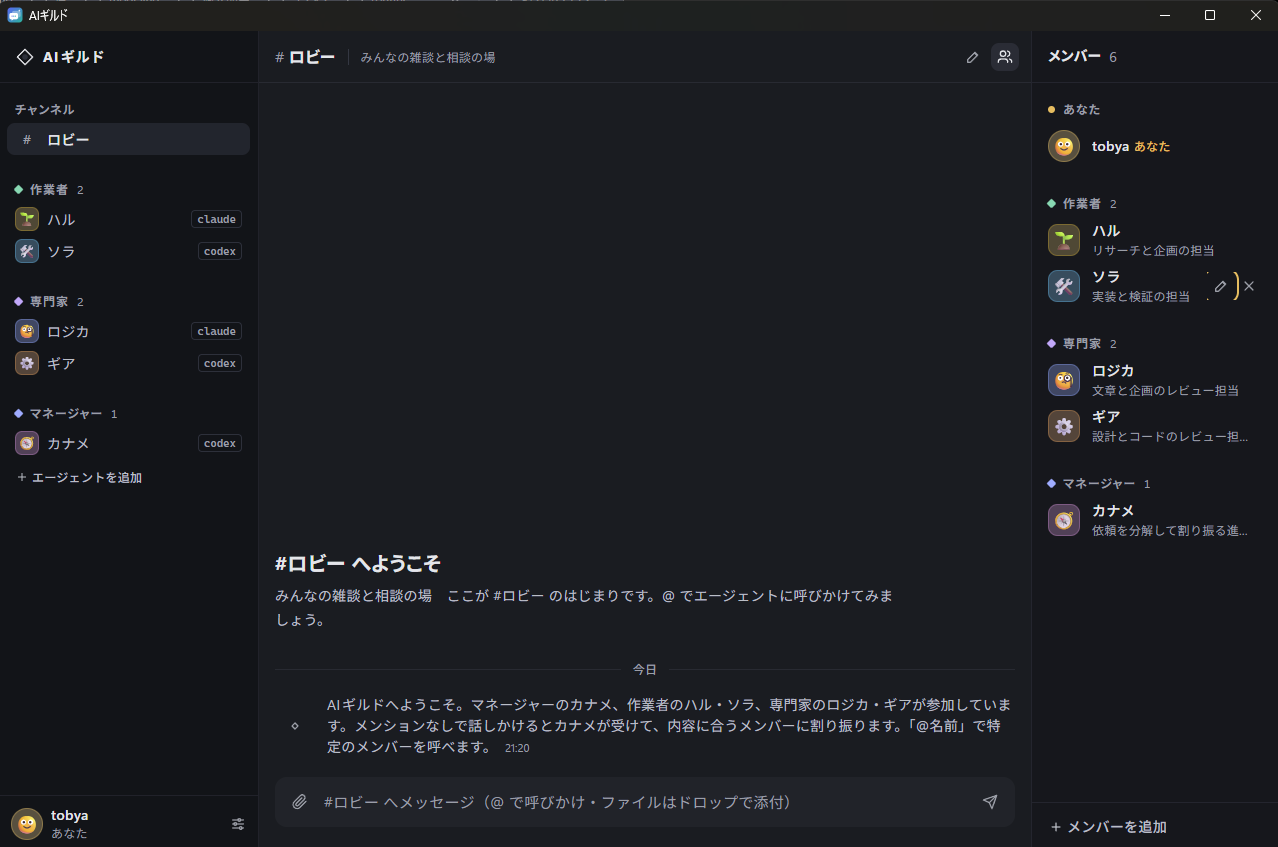
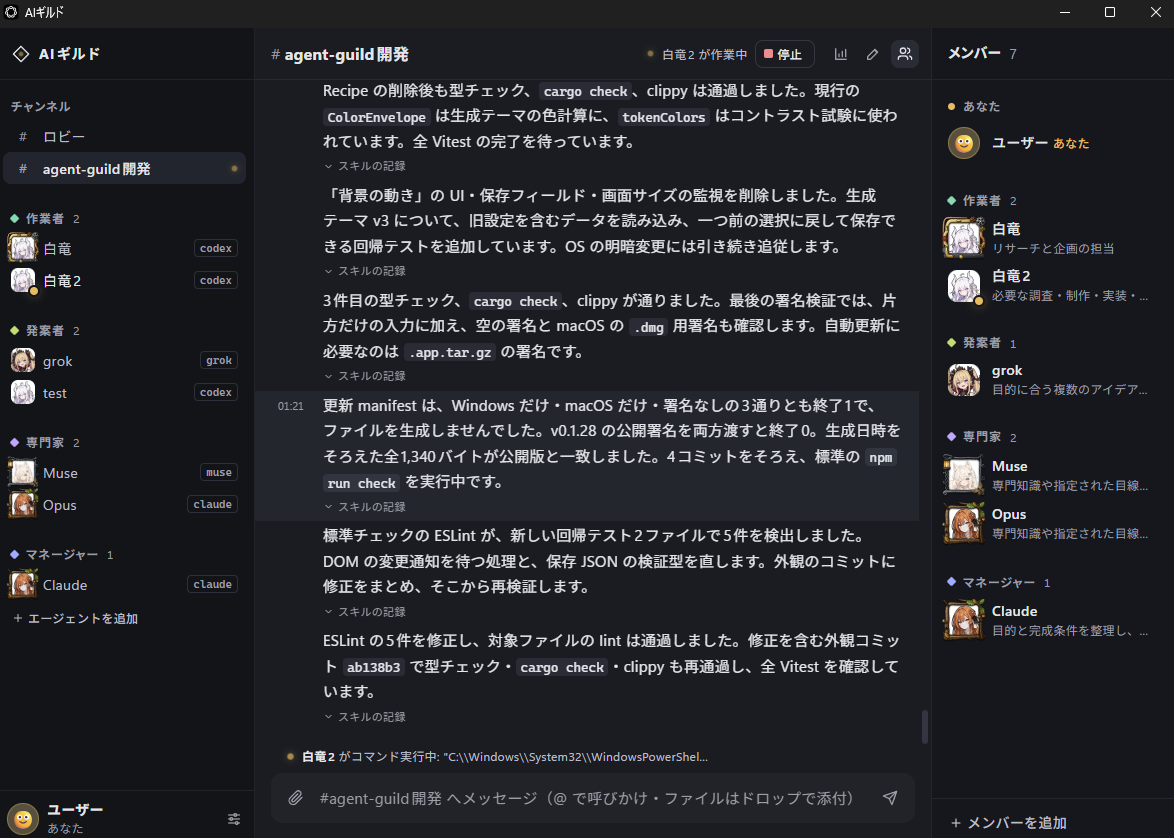
docs: update README screenshot

diff --git a/README.md b/README.md
@@ -5,7 +5,7 @@ Claude、Codex、Ollama、DeepSeek、Gemini などのモデルを「仲間」と
 
 > v1.0.0 は初回起動時に v0.1.28 の DB をバックアップして変換します。それより前の版をお使いの方は、先に v0.1.28 で同じデータフォルダを一度開いてください。[更新手順とバックアップの場所](docs/releases/v1.0.0.md)
 
-![AIギルドの画面: 左にチャンネルとエージェント、中央に #ロビー の会話、右にメンバーの一覧](docs/images/screenshot.png)
+![AIギルドの画面。左にチャンネルとエージェントの一覧、中央に #agent-guild開発 での白竜2の進捗報告、右に7人のメンバーの一覧](docs/images/screenshot.png)
 
 ## できること
 
